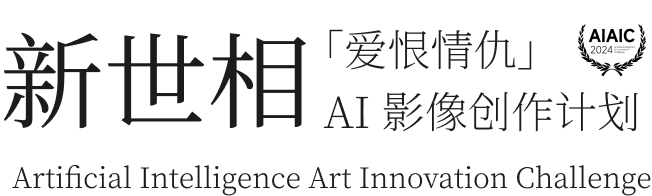
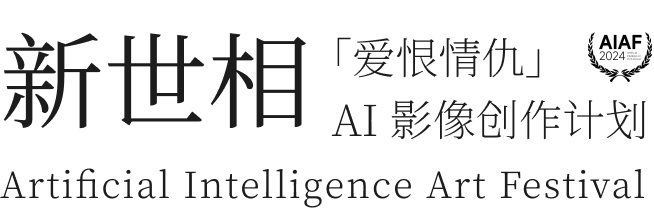
no message

diff --git a/src/components/Content-2.vue b/src/components/Content-2.vue
@@ -11,20 +11,16 @@ export default defineComponent({
     <img class="bg-side" src="../static/img/bg-introduction-side.png" alt="side">
     <div class="text">
       <img class="bg2" src="../static/img/bg-introduction-2.png" alt="bg2">
-      <p>
-        AIAIC（Artificial Intelligence Art Innovation
-        Challenge）作为一个比赛和创造力嘉年华，由新世相联合真格基金、线性资本主办，与人工智能、艺术与内容创作行业的机构与个人联合体共同发起。</p>
+     
 
-      <p>每届 AIAIC 挑战赛将设定一个完整命题，策划不同活动形式，邀请挑战者以 AI 为核心工具和方法完成内容创作。</p>
+      <p>AIAF（Artificial Intelligence Art Festival）是一次面向所有创作者，以及 AI 爱好者的共同创作行动，由新世相联合真格基金、线性资本主办，与人工智能、艺术与内容创作行业的机构与个人联合体共同发起。</p>
+      <p>每届AI艺术节都挑战赛将设定一个完整命题，策划不同活动形式，邀请挑战者以 AI 为核心工具和方法完成内容创作。</p>
 
-      <p>首届创作计划将聚焦「图片」作品，设立评奖，并邀请人工智能技术领域以及艺术文化领域的优秀代表组成顾问评委团，从征集到的作品中共同筛选出最能体现人类使用
-        AI 工具展现创意和人类精神的 100 幅作品，在线上陆续发布，并最终完成一次线下展览。</p>
+      <p>首届创作计划将聚焦「图片」作品，设立评奖，与头部AI创作平台Liblib AI联合征集，并邀请人工智能技术领域以及艺术文化领域的优秀代表组成顾问评委团，从征集到的作品中共同筛选出最能体现人类使用 AI 工具展现创意和人类精神的 100 幅作品，在线上陆续发布，并最终完成一次线下展览。</p>
 
-      <p>AIAIC 的建立，是希望提供一个契机，激励更多有创造力的人加入 AI 创作中来，并且联合所有使用 AI
-        作为工具的人，共同探索令人兴奋的新的内容和创意可能。</p>
+      <p>AIAF的建立，是希望提供一个契机，激励更多有创造力的人加入 AI 创作中来，并且联合所有使用 AI 作为工具的人，共同探索令人兴奋的新的内容和创意可能。</p>
 
-      <p>
-        这是我们站在新时代路口所做的一次微小努力，是一次对人类创造力的极致致敬。我们所期待的，是这一行动得以持续开放、持续发生，持续让共生于当下的更多创作者加入其中，与变化的浪潮共存。</p>
+      <p>这是我们站在新时代路口所做的一次微小努力，是一次对人类创造力的极致致敬。我们所期待的，是这一行动得以持续开放、持续发生，持续让共生于当下的更多创作者加入其中，与变化的浪潮共存。</p>
     </div>
   </div>
 </template>

diff --git a/src/pages/index/index.vue b/src/pages/index/index.vue
@@ -3,11 +3,12 @@
     <div class="section">
       <div class="cover">
         <div class="titles">
-          <img class="text-1" src="../../static/img/cover-text-1.png" alt="text1">
-          <img class="text-2" src="../../static/img/cover-text-2.png" alt="text2">
+          <!-- <img class="text-1" src="../../static/img/cover-text-1.png" alt="text1">
+          <img class="text-2" src="../../static/img/cover-text-2.png" alt="text2"> -->
+          <img class="text-logo" src="../../static/img/cover-text-logo.png" alt="text2">
         </div>
         <img class="logo" src="../../static/img/cover-logo.png" alt="logo">
-        <div class="tips">下滑进入</div>
+        <!-- <div class="tips">下滑进入</div> -->
         <img class="icon-arrow-down" src="../../static/img/icon-arrow-down.svg" alt="down">
       </div>
     </div>
@@ -54,8 +55,8 @@
     </div>
     <div class="cell cell" @click="handleClick(3)" ref="cell-2">
       <div class="left">
-        <div class="title">关于 AIAIC</div>
-        <div class="eng">About AIAIC</div>
+        <div class="title">关于 AIAF</div>
+        <div class="eng">About AIAF</div>
       </div>
       <img class="arrow" src="../../static/img/icon-arrow.svg" alt="arrow">
     </div>
@@ -287,9 +288,10 @@ export default {
   position: relative;
 
   .titles {
-    width: 100%;
+    padding-top: 8vh;
     display: flex;
-    justify-content: space-between;
+    // justify-content: space-between;
+    margin: 0 auto;
 
     .text-1 {
       width: 120px;
@@ -298,13 +300,17 @@ export default {
     .text-2 {
       width: 145px;
     }
+
+    .text-logo {
+      width: 200px;
+    }
   }
 
   .logo {
-    width: 248px;
-
+    width: 100%;
+    padding: 0 15px 0 15px;
     position: absolute;
-    bottom: 122px;
+    bottom: 70px;
   }
 
   .tips {

diff --git a/src/components/PagePoster.vue b/src/components/PagePoster.vue
@@ -115,17 +115,17 @@ export default defineComponent({
         const ctx = uni.createCanvasContext('canvas')
         console.log('ctx', ctx)
         // 画背景图 头
-        ctx.drawImage('https://static.thefair.net.cn/activity/aiaic/poster-bg-top.png', 0, 0, this.backgroundWidth, this.topHeight)
+        ctx.drawImage('https://static.thefair.net.cn/activity/aiaic/static/img/poster-bg-top.png', 0, 0, this.backgroundWidth, this.topHeight)
         console.log('画完头图')
 
         // 画背景图 中间素材
         for (let i = 0; i < this.asset_count; i++) {
-          ctx.drawImage('https://static.thefair.net.cn/activity/aiaic/poster-bg-asset.png', 0, this.topHeight + this.singleAssetHeight * i, this.backgroundWidth, this.singleAssetHeight)
+          ctx.drawImage('https://static.thefair.net.cn/activity/aiaic/static/img/poster-bg-asset.png', 0, this.topHeight + this.singleAssetHeight * i, this.backgroundWidth, this.singleAssetHeight)
         }
         console.log('画完中间素材：', this.asset_count, '个')
 
         // 画背景图 尾
-        ctx.drawImage('https://static.thefair.net.cn/activity/aiaic/poster-bg-bottom.png', 0, this.topHeight + this.singleAssetHeight * this.asset_count, this.backgroundWidth, this.bottomHeight)
+        ctx.drawImage('https://static.thefair.net.cn/activity/aiaic/static/img/poster-bg-bottom.png', 0, this.topHeight + this.singleAssetHeight * this.asset_count, this.backgroundWidth, this.bottomHeight)
         console.log('画完尾图')
 
         // 写文字

diff --git a/src/components/Content-3.vue b/src/components/Content-3.vue
@@ -70,8 +70,8 @@ export default defineComponent({
         获奖者信息将在「新世相」公众号进行公示公布，同时，我们将为所有入围创作者在阿那亚举办作品展览。
       </p>
 
-      <p>
-        *活动最终解释权，归AIAIC组委会所有。
+      <p style="font-size: 13px;color: #DEDEDE;">
+        *活动的最终解释权，归AIAF组委会所有。
       </p>
     </div>
     <img class="btn" src="../static/img/btn-sign-up.png" alt="btn" @click="handleSignUp">

diff --git a/src/utils/wxShare.js b/src/utils/wxShare.js
@@ -37,7 +37,7 @@ export const wxShareInit = async () => {
             scale: "",
             width: "",
           },
-          url: "https://static.thefair.net.cn/activity/aiaic/share.jpg",
+          url: "https://static.thefair.net.cn/activity/aiaic/share.png",
         },
         link: window.location.href,
         text: "在科技发展过程中，探索「人类精神」的不可替代性",

diff --git a/src/components/Content-1.vue b/src/components/Content-1.vue
@@ -63,13 +63,13 @@ export default defineComponent({
     //width: 327.5px;
     padding-left: 47px;
     padding-right: 40px;
-    margin-top: 6.5px;
+    margin-top: 16px;
   }
 
   .text {
     width: 100%;
-    padding: 19px 50.5px 0 51.5px;
-    margin-top: 45px;
+    padding: 0px 50.5px 0 51.5px;
+    margin-top: 40px;
     position: relative;
 
     font-family: Source Han Serif CN;

diff --git a/src/components/PageSubmit.vue b/src/components/PageSubmit.vue
@@ -202,7 +202,7 @@ export default defineComponent({
     width: 347.5px;
     height: .5px;
     background-color: #1C1C1C;
-    margin-top: 37.2px;
+    margin-top: 30px;
     margin-bottom: 33px;
     flex-shrink: 0;
   }
